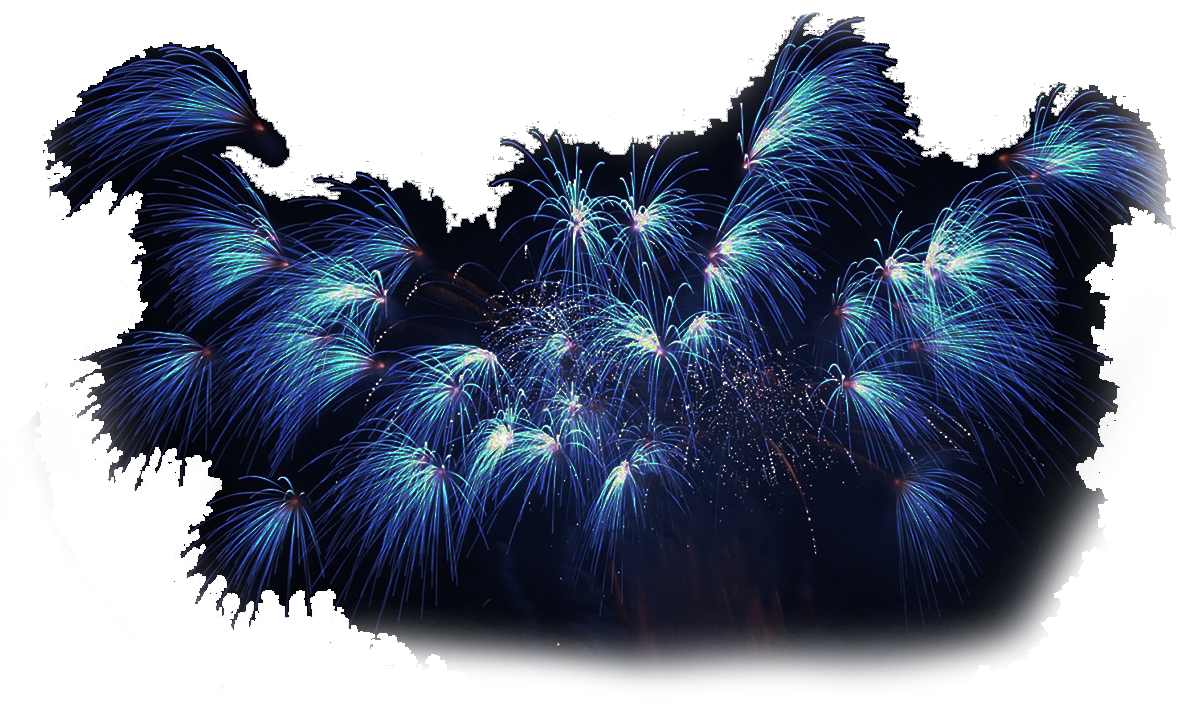
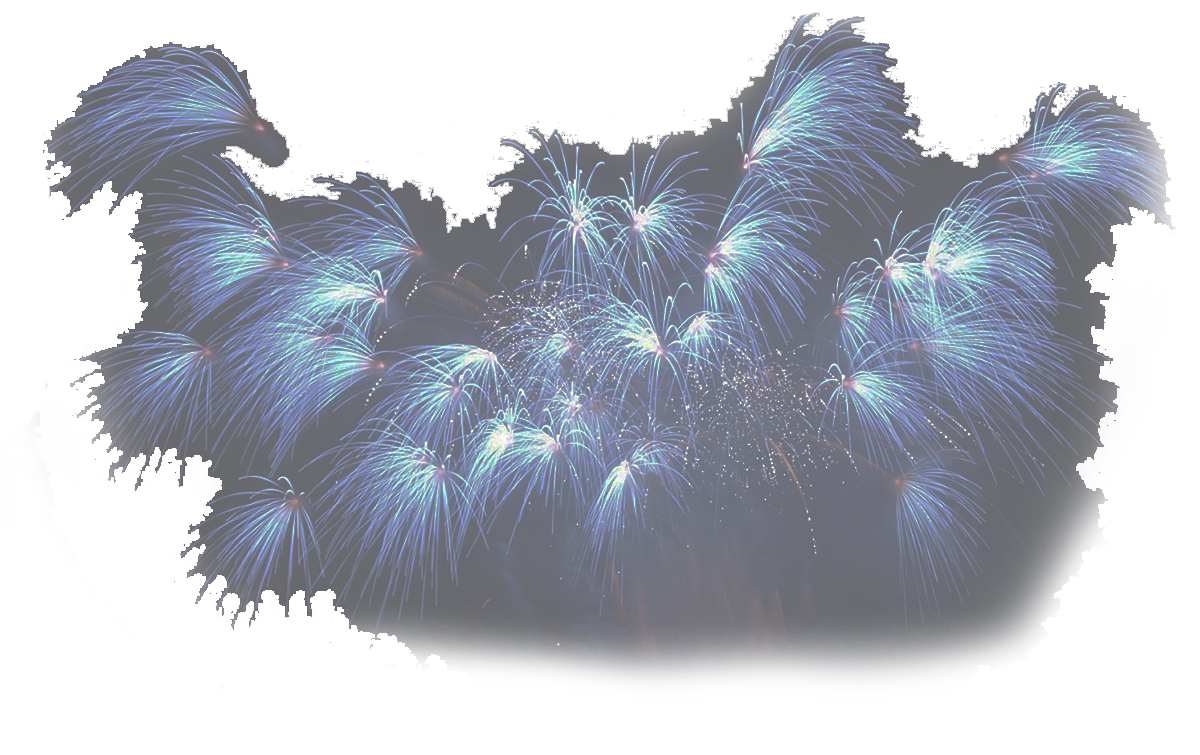
Задний фон

diff --git a/css/styles.css b/css/styles.css
@@ -91,7 +91,7 @@ body {
 }
 
 #secondPage {
-    background-image: url(http://localhost/images/firstPage.png);
+    background-image: url(http://localhost/images/secondPage.png);
     background-color: #000;
     background-repeat: no-repeat;
     background-size: cover;
@@ -109,7 +109,10 @@ body {
     padding-top: 0px;
 }
 #forthPage {
-    background: #000;
+    background-image: url(http://localhost/images/forthPage.png);
+    background-color: #000;
+    background-repeat: no-repeat;
+    background-size: cover;
     margin: auto auto;
     width: 80%;
     height: 24%;
